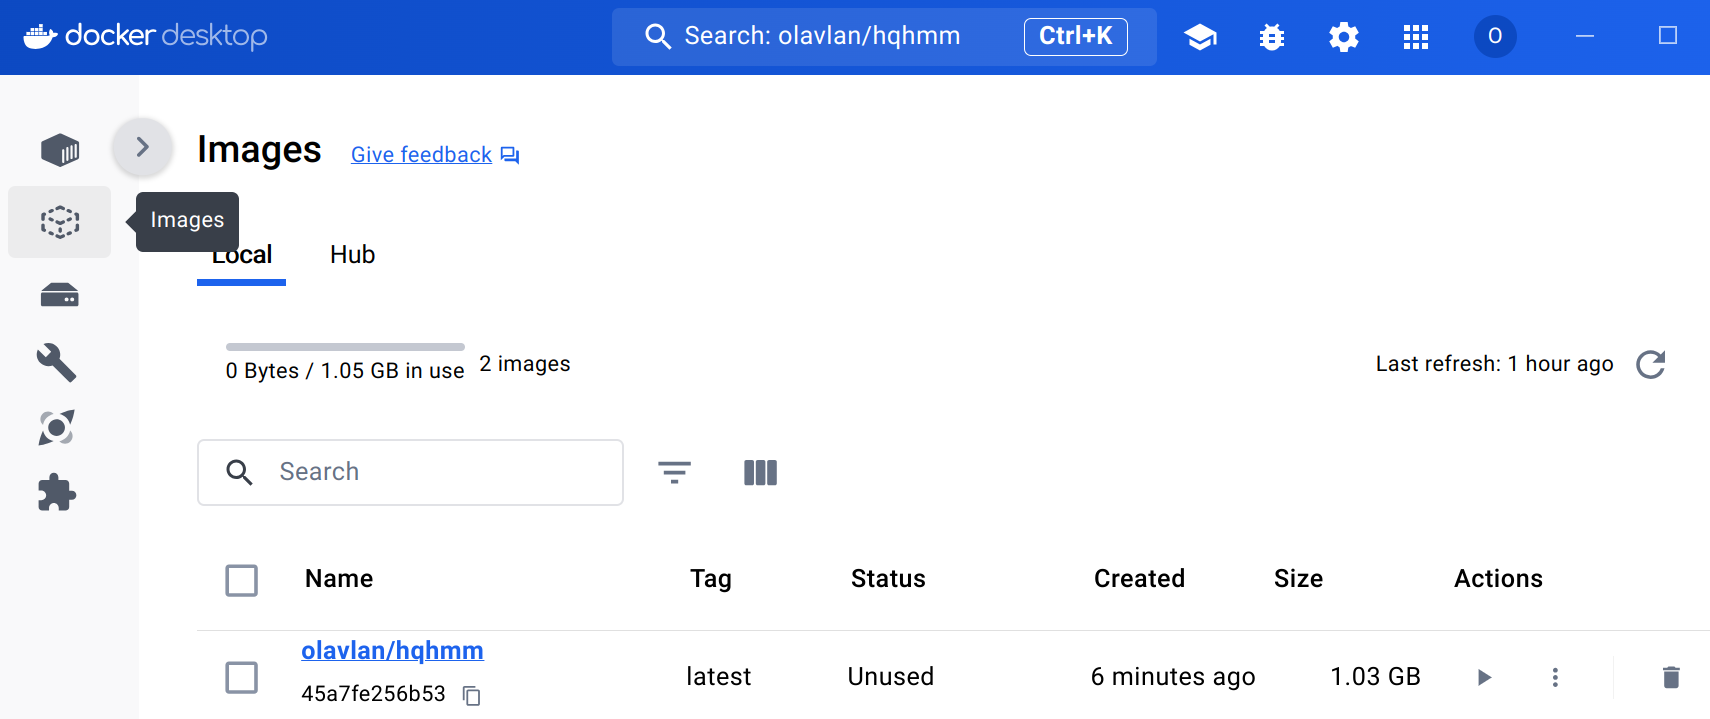
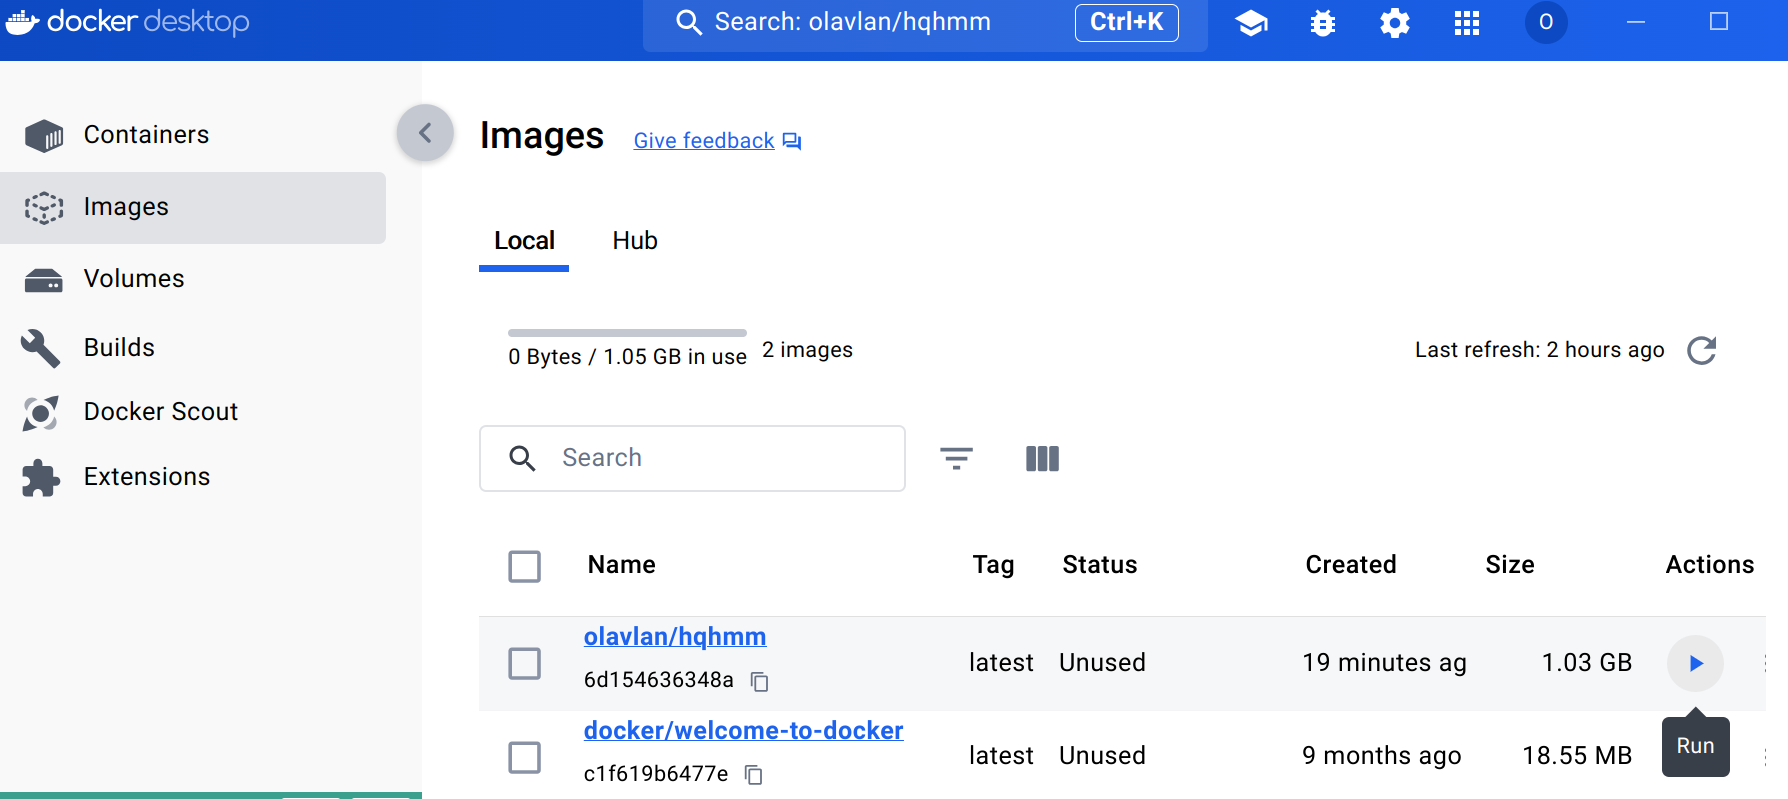
readme

diff --git a/README.md b/README.md
@@ -1,6 +1,6 @@
 # High-Quality Heightmap Meshing
 
-A Flask app that helps transform heightmaps (as image files) to high quality triangular meshes. Uses [delatin](https://github.com/mapbox/delatin) or [hmm](https://github.com/fogleman/hmm).
+A webapp that helps transform heightmaps (as image files) to high quality triangular meshes. Uses [delatin](https://github.com/mapbox/delatin) or [hmm](https://github.com/fogleman/hmm).
 
 ## Easy installation
 
@@ -25,4 +25,10 @@ A Flask app that helps transform heightmaps (as image files) to high quality tri
    <img src="public/docker-open.png" width="600" alt="Docker open">
    </details>
 
-6. To update to the newest release of the app, repeat steps 2-4.
+* *Docker* will run in the background even if you close the dashboard. Look for the  <img src="public/docker-brands-solid.svg" style="height:1em;"> icon in your taskbar to reopen the dashboard or quit *Docker* completely.
+* Go to the *Containers* tab to verify that the webapp is running. If not, you can restart it by clicking ▶. <details>
+   <summary>Screenshot</summary>
+   <img src="public/docker-restart.png" width="600" alt="Docker open">
+   </details>
+* An *image* is created when you click *Pull* and a *container* is created when you click *Run*. 
+* To update to the newest release of the app, delete previous containers and images, and repeat steps 2-5. 
